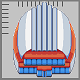
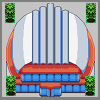
metropolis residentalzone, buildings update

diff --git a/KukaPest/View/BoardGUI.java b/KukaPest/View/BoardGUI.java
@@ -14,11 +14,13 @@ import java.awt.event.*;
 public class BoardGUI extends JPanel implements MouseListener, MouseMotionListener {
 
     static final int DELAY = 1000;
-    Image background, grass, dirt, water, road, uni, res_zone, res_zone_1, res_zone_2, res_zone_3, res_zone_max, pp,
-            school, police, stadium, industrial, power_pole, service;
+    Image background, grass, dirt, water, road, uni, res_zone, res_zone_1, res_zone_2, res_zone_3, res_zone_max, res_zone_level2,
+            res_zone_level2_2,res_zone_level3,res_zone_level3_2,pp, school, police, stadium, industrial, power_pole,
+            service, industrial_1, industrial_2, service_1, service_2;
     Board board;
     boolean build = false;
     boolean destroy = false;
+    boolean upgrade = false;
     Building selectedBuilding;
     Tile[][] map;
     private Game game;
@@ -53,13 +55,21 @@ public class BoardGUI extends JPanel implements MouseListener, MouseMotionListen
         res_zone_2 = new ImageIcon("KukaPest/Assets/residental_2.png").getImage();
         res_zone_3 = new ImageIcon("KukaPest/Assets/residental_3.png").getImage();
         res_zone_max = new ImageIcon("KukaPest/Assets/residental_max.png").getImage();
+        res_zone_level2 = new ImageIcon("KukaPest/Assets/residental_level2_1.png").getImage();
+        res_zone_level2_2 = new ImageIcon("KukaPest/Assets/residental_level2_2.png").getImage();
+        res_zone_level3 = new ImageIcon("KukaPest/Assets/residental_level2_3.png").getImage();
+        res_zone_level3_2 = new ImageIcon("KukaPest/Assets/residental_level3_2.png").getImage();
         pp = new ImageIcon("KukaPest/Assets/pp.png").getImage();
         school = new ImageIcon("KukaPest/Assets/school.png").getImage();
         police = new ImageIcon("KukaPest/Assets/police.png").getImage();
         stadium = new ImageIcon("KukaPest/Assets/stadium.png").getImage();
         industrial = new ImageIcon("KukaPest/Assets/industrial.png").getImage();
+        industrial_1 = new ImageIcon("KukaPest/Assets/industrial_1.png").getImage();
+        industrial_2 = new ImageIcon("KukaPest/Assets/industrial_2.png").getImage();
         power_pole = new ImageIcon("KukaPest/Assets/power_pole.png").getImage();
         service = new ImageIcon("KukaPest/Assets/service.png").getImage();
+        service_1 = new ImageIcon("KukaPest/Assets/service_1.png").getImage();
+        service_2 = new ImageIcon("KukaPest/Assets/service_2.png").getImage();
 
         map = game.getMap();
 
@@ -93,39 +103,81 @@ public class BoardGUI extends JPanel implements MouseListener, MouseMotionListen
                 else if (map[i][j] instanceof Road)
                     g2.drawImage(road, j * board.getCellSide(), i * board.getCellSide(),25,25, null);
                 else if (map[i][j] instanceof Police)
-                    g2.drawImage(police, j * board.getCellSide(), i * board.getCellSide(),40,80, null);
+                    g2.drawImage(police, j * board.getCellSide(), i * board.getCellSide(),100,50, null);
                 else if (map[i][j] instanceof Stadium)
-                    g2.drawImage(stadium, j * board.getCellSide(), i * board.getCellSide(),80,80, null);
+                    g2.drawImage(stadium, j * board.getCellSide(), i * board.getCellSide(),100,100, null);
                 else if (map[i][j] instanceof University)
-                    g2.drawImage(uni, j * board.getCellSide(),i * board.getCellSide(),80,80, null);
+                    g2.drawImage(uni, j * board.getCellSide(),i * board.getCellSide(),100,100, null);
                 else if (map[i][j] instanceof ResidentialZone) {
                     // System.out.println(((ResidentialZone) map[i][j]).getCurrentCapacity());
-                    if (((ResidentialZone) map[i][j]).getCurrentCapacity() == 0) {
-                        g2.drawImage(res_zone, j * board.getCellSide(), i * board.getCellSide(), 40, 40, null);
+                    if(((ResidentialZone) map[i][j]).getLevel() == 1){
+                        if (((ResidentialZone) map[i][j]).getCurrentCapacity() == 0) {
+                            g2.drawImage(res_zone, j * board.getCellSide(), i * board.getCellSide(), 50, 50, null);
+                        }
+                        if (((ResidentialZone) map[i][j]).getCurrentCapacity() <= 2 && ((ResidentialZone) map[i][j]).getCurrentCapacity() >0) {
+                            g2.drawImage(res_zone_1, j * board.getCellSide(), i * board.getCellSide(), 50, 50, null);
+                        }
+                        if (((ResidentialZone) map[i][j]).getCurrentCapacity() <= 4 && ((ResidentialZone) map[i][j]).getCurrentCapacity() > 2) {
+                            g2.drawImage(res_zone_2, j * board.getCellSide(), i * board.getCellSide(), 50, 50, null);
+                        }
+                        if (((ResidentialZone) map[i][j]).getCurrentCapacity() <= 6 && ((ResidentialZone) map[i][j]).getCurrentCapacity() > 4) {
+                            g2.drawImage(res_zone_3, j * board.getCellSide(), i * board.getCellSide(), 50, 50, null);
+                        }
+                        if (((ResidentialZone) map[i][j]).getCurrentCapacity() <= 10 && ((ResidentialZone) map[i][j]).getCurrentCapacity() > 6) {
+                            g2.drawImage(res_zone_max, j * board.getCellSide(), i * board.getCellSide(), 50, 50, null);
+                        }
+
                     }
-                    if (((ResidentialZone) map[i][j]).getCurrentCapacity() <= 2 && ((ResidentialZone) map[i][j]).getCurrentCapacity() >0 ) {
-                        g2.drawImage(res_zone_1, j * board.getCellSide(), i * board.getCellSide(), 40, 40, null);
+                    if(((ResidentialZone) map[i][j]).getLevel() == 2){
+                        if (((ResidentialZone) map[i][j]).getCurrentCapacity() <= 16 && ((ResidentialZone) map[i][j]).getCurrentCapacity() > 0) {
+                            g2.drawImage(res_zone_level2, j * board.getCellSide(), i * board.getCellSide(), 50, 50, null);
+                        }
+                        if (((ResidentialZone) map[i][j]).getCurrentCapacity() <= 25 && ((ResidentialZone) map[i][j]).getCurrentCapacity() > 16) {
+                            g2.drawImage(res_zone_level2_2, j * board.getCellSide(), i * board.getCellSide(), 50, 50, null);
+                        }
+
                     }
-                    if (((ResidentialZone) map[i][j]).getCurrentCapacity() <= 4 && ((ResidentialZone) map[i][j]).getCurrentCapacity() > 2) {
-                        g2.drawImage(res_zone_2, j * board.getCellSide(), i * board.getCellSide(), 40, 40, null);
+                    if(((ResidentialZone) map[i][j]).getLevel() == 3){
+                        if (((ResidentialZone) map[i][j]).getCurrentCapacity() <= 32 && ((ResidentialZone) map[i][j]).getCurrentCapacity() > 0) {
+                            g2.drawImage(res_zone_level3, j * board.getCellSide(), i * board.getCellSide(), 50, 50, null);
+                        }
+                        if (((ResidentialZone) map[i][j]).getCurrentCapacity() <= 50 && ((ResidentialZone) map[i][j]).getCurrentCapacity() > 32) {
+                            g2.drawImage(res_zone_level3_2, j * board.getCellSide(), i * board.getCellSide(), 50, 50, null);
+                        }
+
                     }
-                    if (((ResidentialZone) map[i][j]).getCurrentCapacity() <= 6 && ((ResidentialZone) map[i][j]).getCurrentCapacity() > 4) {
-                        g2.drawImage(res_zone_3, j * board.getCellSide(), i * board.getCellSide(), 40, 40, null);
-                    }
-                    if (((ResidentialZone) map[i][j]).getCurrentCapacity() <= 10 && ((ResidentialZone) map[i][j]).getCurrentCapacity() > 6) {
-                        g2.drawImage(res_zone_max, j * board.getCellSide(), i * board.getCellSide(), 40, 40, null);
-                    }
+
                 }
                 else if (map[i][j] instanceof PowerPlant)
-                    g2.drawImage(pp, j * board.getCellSide(), i * board.getCellSide(),80,80, null);
+                    g2.drawImage(pp, j * board.getCellSide(), i * board.getCellSide(),100,100, null);
                 else if (map[i][j] instanceof School)
-                    g2.drawImage(school, j * board.getCellSide(), i * board.getCellSide(),40,80, null);
-                else if (map[i][j] instanceof IndustrialZone)
-                    g2.drawImage(industrial, j * board.getCellSide(), i * board.getCellSide(),40,40, null);
+                    g2.drawImage(school, j * board.getCellSide(), i * board.getCellSide(),100,50, null);
+                else if (map[i][j] instanceof IndustrialZone) {
+                    if (((IndustrialZone) map[i][j]).getCurrentCapacity() == 0) {
+                        g2.drawImage(industrial, j * board.getCellSide(), i * board.getCellSide(), 50, 50, null);
+                    }
+                    else if (((IndustrialZone) map[i][j]).getCurrentCapacity() <= 4 && ((IndustrialZone) map[i][j]).getCurrentCapacity() > 0) {
+                        g2.drawImage(industrial_1, j * board.getCellSide(), i * board.getCellSide(), 50, 50, null);
+                    }
+                    else{
+                        g2.drawImage(industrial_2, j * board.getCellSide(), i * board.getCellSide(), 50, 50, null);
+                    }
+                    //g2.drawImage(industrial, j * board.getCellSide(), i * board.getCellSide(), 50, 50, null);
+                }
                 else if (map[i][j] instanceof Pole)
-                    g2.drawImage(power_pole, j * board.getCellSide(), i * board.getCellSide(),20,20, null);
-                else if (map[i][j] instanceof ServiceZone)
-                    g2.drawImage(service, j * board.getCellSide(), i * board.getCellSide(),40,40, null);
+                    g2.drawImage(power_pole, j * board.getCellSide(), i * board.getCellSide(),25,25, null);
+                else if (map[i][j] instanceof ServiceZone){
+                    if (((ServiceZone) map[i][j]).getCurrentCapacity() == 0) {
+                        g2.drawImage(service, j * board.getCellSide(), i * board.getCellSide(), 50, 50, null);
+                    }
+                    else if (((ServiceZone) map[i][j]).getCurrentCapacity() <= 4 && ((ServiceZone) map[i][j]).getCurrentCapacity() > 0) {
+                        g2.drawImage(service_1, j * board.getCellSide(), i * board.getCellSide(), 50, 50, null);
+                    }
+                    else{
+                        g2.drawImage(service_2, j * board.getCellSide(), i * board.getCellSide(), 50, 50, null);
+                    }
+                }
+                    //g2.drawImage(service, j * board.getCellSide(), i * board.getCellSide(),50,50, null);
 
             }
         }
@@ -153,6 +205,10 @@ public class BoardGUI extends JPanel implements MouseListener, MouseMotionListen
                 System.out.println("Nem sikerült a rombolás");
             }
             //destroy = false;
+            repaint();
+        }
+        if(upgrade){
+            game.upgrade(new Coordinates(row,col));
             repaint();
         }
 

diff --git a/KukaPest/Model/City.java b/KukaPest/Model/City.java
@@ -683,6 +683,45 @@ public class City {
         System.out.println();
     }
 
+    public void upgrade(Coordinates coords){
+        if (this.map[coords.getHeight()][coords.getWidth()] instanceof Road) {
+
+        }
+        else if (this.map[coords.getHeight()][coords.getWidth()] instanceof Pole) {
+
+        }
+        else if (this.map[coords.getHeight()][coords.getWidth()] instanceof MainZone || this.map[coords.getHeight()][coords.getWidth()] instanceof ZonePart) {
+            MainZone mainZone;
+            if(this.map[coords.getHeight()][coords.getWidth()] instanceof MainZone){
+                mainZone = (MainZone) this.map[coords.getHeight()][coords.getWidth()];
+            }
+            else{
+                mainZone = ((ZonePart) this.map[coords.getHeight()][coords.getWidth()]).mainBuilding;
+            }
+
+            if (mainZone instanceof ResidentialZone) {
+                if(((ResidentialZone) mainZone).getLevel() == 1){
+                    ((ResidentialZone) mainZone).setLevel(2);
+                    System.out.println(((ResidentialZone) mainZone).getLevel());
+                    ((ResidentialZone) mainZone).setCapacity(25);
+                }
+                else if(((ResidentialZone) mainZone).getLevel() == 2){
+                    ((ResidentialZone) mainZone).setLevel(3);
+                    ((ResidentialZone) mainZone).setCapacity(50);
+                }
+            }
+            if (mainZone instanceof Workplace) {
+
+            }
+            if (mainZone instanceof Infrastructure) {
+
+            }
+
+
+        }
+
+    }
+
     public Tile[][] getMap() {
         return map;
     }

diff --git a/KukaPest/View/MainWindow.java b/KukaPest/View/MainWindow.java
@@ -614,6 +614,21 @@ public class MainWindow extends JFrame{
                 BoardPanel.getGame().setTimeSpeed(5);
             }
         });
+        upgrade.addActionListener(new ActionListener() {
+            @Override
+            public void actionPerformed(ActionEvent ae) {
+
+                remove(startBar);
+                remove(statBar);
+                remove(buildBar);
+                add(startBar,BorderLayout.EAST);
+                pack();
+
+                BoardPanel.build = false;
+                BoardPanel.destroy = false;
+                BoardPanel.upgrade = true;
+            }
+        });
     }
 
     /**

diff --git a/KukaPest/Model/Map/ResidentialZone.java b/KukaPest/Model/Map/ResidentialZone.java
@@ -3,7 +3,18 @@ package Model.Map;
 import Model.Helper.Coordinates;
 
 public class ResidentialZone extends MainZone{
+    private int level = 1;
     public ResidentialZone(Coordinates coordinates) {
+
         super(2,2,10, 0, coordinates, 0);
     }
+
+    public void setLevel(int level) {
+        this.level = level;
+    }
+
+    public int getLevel() {
+        return level;
+    }
+
 }

diff --git a/KukaPest/Model/Game.java b/KukaPest/Model/Game.java
@@ -24,6 +24,9 @@ public class Game {
     public boolean destroy(Coordinates coords){
         return city.destroy(coords);
     }
+    public void upgrade(Coordinates coords){
+        city.upgrade(coords);
+    }
 
     public void stepGame(){
         city.timePassed(timeSpeed);

diff --git a/KukaPest/Model/Map/Police.java b/KukaPest/Model/Map/Police.java
@@ -5,6 +5,6 @@ import Model.Helper.Coordinates;
 public class Police extends Infrastructure {
 
     public Police(Coordinates coordinates) {
-        super(2,4,20, 1500, coordinates, 15);
+        super(4,2,20, 1500, coordinates, 15);
     }
 }

diff --git a/KukaPest/Model/Map/School.java b/KukaPest/Model/Map/School.java
@@ -4,6 +4,6 @@ import Model.Helper.Coordinates;
 
 public class School extends EduBuilding{
     public School(Coordinates coordinates) {
-        super(2, 4,30,1000,coordinates ,10);
+        super(4, 2,30,1000,coordinates ,10);
     }
 }

diff --git a/KukaPest/Model/Map/MainZone.java b/KukaPest/Model/Map/MainZone.java
@@ -59,4 +59,8 @@ abstract public class MainZone extends Constructable {
     }
 
     public Coordinates getCoordinates() { return coordinates;}
+
+    public void setCapacity(int capacity) {
+        this.capacity = capacity;
+    }
 }
